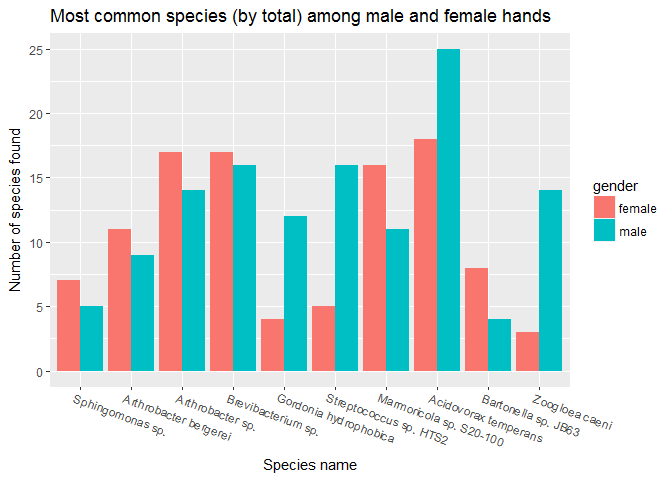
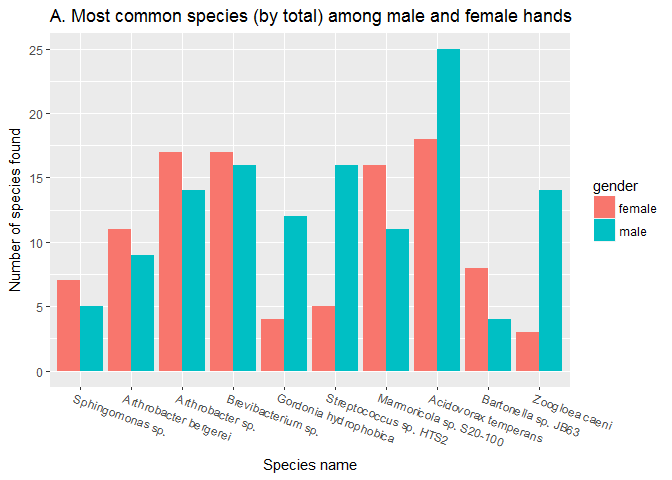
spellcheck and add fig 6B

Changed region(s): [[0.0625, 0.0, 0.8438, 0.0625]]

diff --git a/Analysis_of_BLAST_Results.md b/Analysis_of_BLAST_Results.md
@@ -6,7 +6,7 @@ October 13, 2017
 Introduction
 ============
 
-As recent advancements in gene sequencing technology make studying microbiomes more and more accesible, studies of the human microbiomes have shown that they can vary widely from person to person. In this study, Fierer *et al.* focused on microbial communities living on peoples' skin. They were able to prove that miceobes from a person's skin can remain on an object they have touched for up to two weeks, and sequences from these microbes can be used to accurately match which person has touched a given object. Whereas the original authors focused on using skin microbes for forensic analysis, I focused on investigating what these unique communities could tell me about the individuals they came from.
+As recent advancements in gene sequencing technology make studying microbiomes more and more accessible, studies of the human microbiomes have shown that they can vary widely from person to person. In this study, Fierer *et al.* focused on microbial communities living on peoples' skin. They were able to prove that microbes from a person's skin can remain on an object they have touched for up to two weeks, and sequences from these microbes can be used to accurately match which person has touched a given object. Whereas the original authors focused on using skin microbes for forensic analysis, I focused on investigating what these unique communities could tell me about the individuals they came from.
 
 Methods
 =======
@@ -14,12 +14,12 @@ Methods
 Sample origin and sequencing
 ----------------------------
 
-The original samples were obtained from human volunteers and the keyboards/mice they touched, and collected with asterilized cotton-tipped swab that had been moistened by a sterile solution. The hands were swabbed at midday, and the mice and keyboards were swabbed within 12 hours of bein used by their respective owners. The sequences were obtained using high-throughput pyrosequencing of the 16S ribosomal gene.
+The original samples were obtained from human volunteers and the keyboards/mice they touched, and collected with sterilized cotton-tipped swab that had been moistened by a sterile solution. The hands were swabbed at midday, and the mice and keyboards were swabbed within 12 hours of being used by their respective owners. The sequences were obtained using high-throughput pyrosequencing of the 16S ribosomal gene.
 
 Computational
 -------------
 
-The sequence data was analyzed using a combination of bash and R. First, the quality of each sequence was analyzed in bash using bioawk. After the sequenceswere revealed to be of good quality, a bash script was used to search the NCBI databank for the closest species matches, and document the results. After the bash analysis, several R analyses were used to determine the relatinoships of the various species. The relationship of subject's sex to their skin microbes was of particular interest.
+The sequence data was analyzed using a combination of bash and R. First, the quality of each sequence was analyzed in bash using bioawk. After the sequences were revealed to be of good quality, a bash script was used to search the NCBI database for the closest species matches, and document the results. After the bash analysis, several R analyses were used to determine the relationships of the various species. The relationship of subject's sex to their skin microbes was of particular interest.
 
 Results
 =======
@@ -296,16 +296,46 @@ mf_in_common %>%
   geom_bar(stat = "Identity",
            position = "dodge") +
   theme(axis.text.x = element_text(angle = -20, hjust = 0.05)) +
-  ggtitle("Most common species (by total) among male and female hands") +
+  ggtitle("A. Most common species (by total) among male and female hands") +
   xlab("Species name") +
   ylab("Number of species found")
 ```
 
-![](Analysis_of_BLAST_Results_files/figure-markdown_github-ascii_identifiers/common%20between%20sexes-1.png) Given that there are prominent differences in the species prominent on male hands versus female hands, I next decided to take a look at what prominent species had the smallest difference between male and female hands. I found that of these species, none was found more than 25 times on any one gender's hands.
+![](Analysis_of_BLAST_Results_files/figure-markdown_github-ascii_identifiers/common%20between%20sexes-1.png)
+
+``` r
+# also decided to make a third graph that determines the 30
+# most common species by percent makeup, rather than total abundance
+mf_in_common %>%
+  mutate(f_pcnt = female / sum(mf_in_common$female, na.rm = TRUE),
+         m_pcnt = male / sum(mf_in_common$male, na.rm = TRUE)) %>%
+  mutate(f_pcnt = ifelse(is.na(f_pcnt), 0, f_pcnt),
+         m_pcnt = ifelse(is.na(m_pcnt), 0, m_pcnt)) %>%
+  mutate(diff = abs(f_pcnt - m_pcnt)) %>%
+  mutate(m_f = female + male, mf_pcnt = m_pcnt + f_pcnt) %>%
+  arrange(desc(mf_pcnt)) %>%
+  head(30) %>%
+  arrange(diff) %>%
+  head(10) %>%
+  gather(key = "gender",
+         value = "n",
+         female, male) %>%
+  ggplot(aes(x = sscinames,
+             y = n,
+             fill = gender)) +
+  geom_bar(stat = "Identity",
+           position = "dodge") +
+  theme(axis.text.x = element_text(angle = -20, hjust = 0.04)) +
+  ggtitle("B. Most common species (by percent)among male and female hands") +
+  xlab("Species name") +
+  ylab("Number of species found")
+```
+
+![](Analysis_of_BLAST_Results_files/figure-markdown_github-ascii_identifiers/common%20between%20sexes-2.png) Given that there are prominent differences in the species prominent on male hands versus female hands, I next decided to take a look at what prominent species had the smallest difference between male and female hands. Figure 6A determined the most prominent species using overall count in both sexes, whereas Figure 6B determined the most prominent species using the percent makeup each species has across both sexes.
 
 Discussion
 ==========
 
-There appears to be a difference between the most prominent species in male and female hands. Strangely, the most prominent species on male hande was a gill symbiote of the clam species *Solemya permicosa*, whuch seems an odd thing to find on human hands. On female hands, the most common bacterium was *Bartonella washoensis*, a pathogen known to cause memingitis, which makes a little more sense. After seeing the great differences between male and female hands, I decided to look for what was the most similar between them. Most of these bacteria that were found in similar levels among the sexes were typical bacteria one might expect to see on a human hand, such as soil bacteria. However, what stands out about these bacteria is that there is significantly less of them than any of the major groups found in either sex. Even the most prominent of these has only around 15 individuals in female hands and 25 in male hands. This reinforces the idea that the microbial communities on a person'shands are highly individualized, because the none of the species that are common amongst both sexes are very prominent overall.
+There appears to be a difference between the most prominent species in male and female hands. Strangely, the most prominent species on male hand was a gill symbiont of the clam species *Solemya permicosa*, which seems an odd thing to find on human hands. On female hands, the most common bacterium was *Bartonella washoensis*, a pathogen known to cause meningitis, which makes a little more sense. After seeing the great differences between male and female hands, I decided to look for what was the most similar between them. Most of these bacteria that were found in similar levels among the sexes were typical bacteria one might expect to see on a human hand, such as soil bacteria. However, what stands out about these bacteria is that there is significantly less of them than any of the major groups found in either sex. Even the most prominent of these has less than 80 individual present in both male and female hands. This reinforces the idea that the microbial communities on a person's hands are highly individualized, because the none of the species that are common among both sexes are very prominent overall.
 
-On a somewhat related note, when I looked at the initial percent identity chart, I noticed that there seemed to be a large number of species with around 86% match. When I looked into this, I noticed that there was one species that an overwhelming amount of these matches belonged to the *S. permicosa* gill symbiote, which also happened to be the most common match on male hands. While I thought that it was odd for a clam-associated bacterium to be on human hands, seeing that most of them had a relatively low match percentage compared to most of the other matches indictes that they could have been a mismatched species. It is quite possible that the actual bacterium on these subject's hands simply has not been sequenced yet.
+On a somewhat related note, when I looked at the initial percent identity chart, I noticed that there seemed to be a large number of species with around 86% match. When I looked into this, I noticed that there was one species that an overwhelming amount of these matches belonged to the *S. permicosa* gill symbiont, which also happened to be the most common match on male hands. While I thought that it was odd for a clam-associated bacterium to be on human hands, seeing that most of them had a relatively low match percentage compared to most of the other matches indicates that they could have been a mismatched species. It is quite possible that the actual bacterium on these subject's hands simply has not been sequenced yet.
